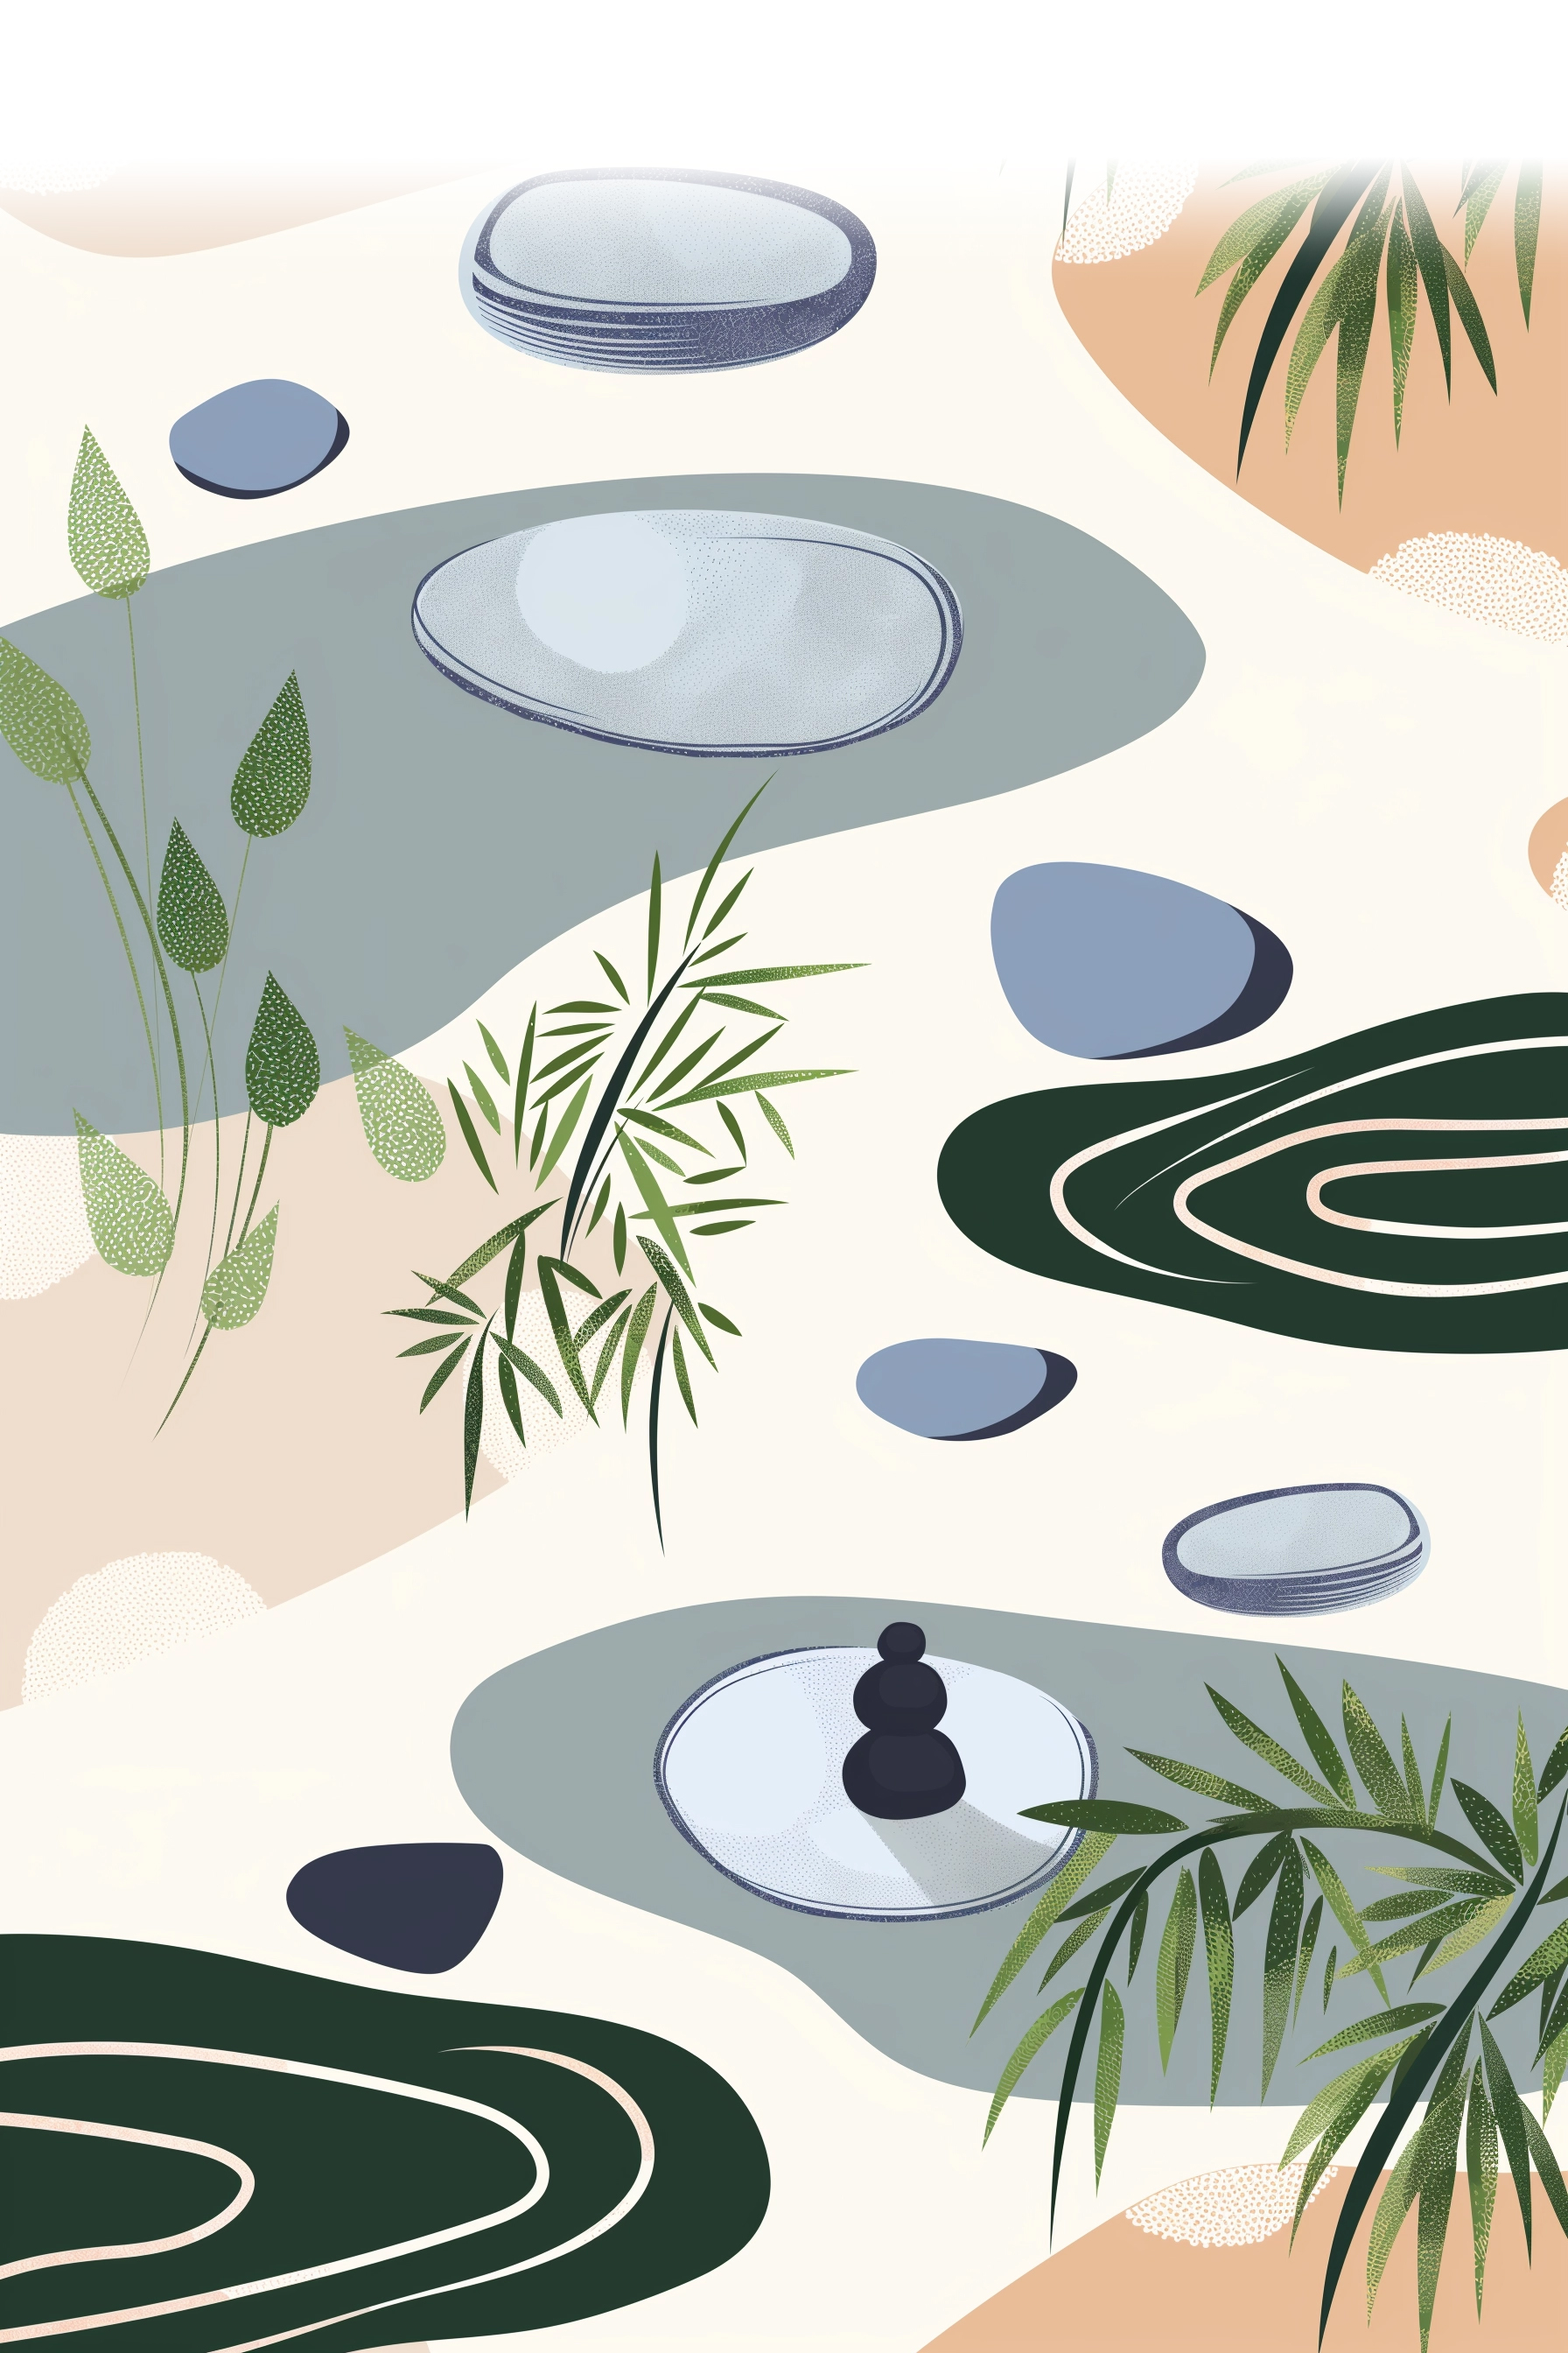
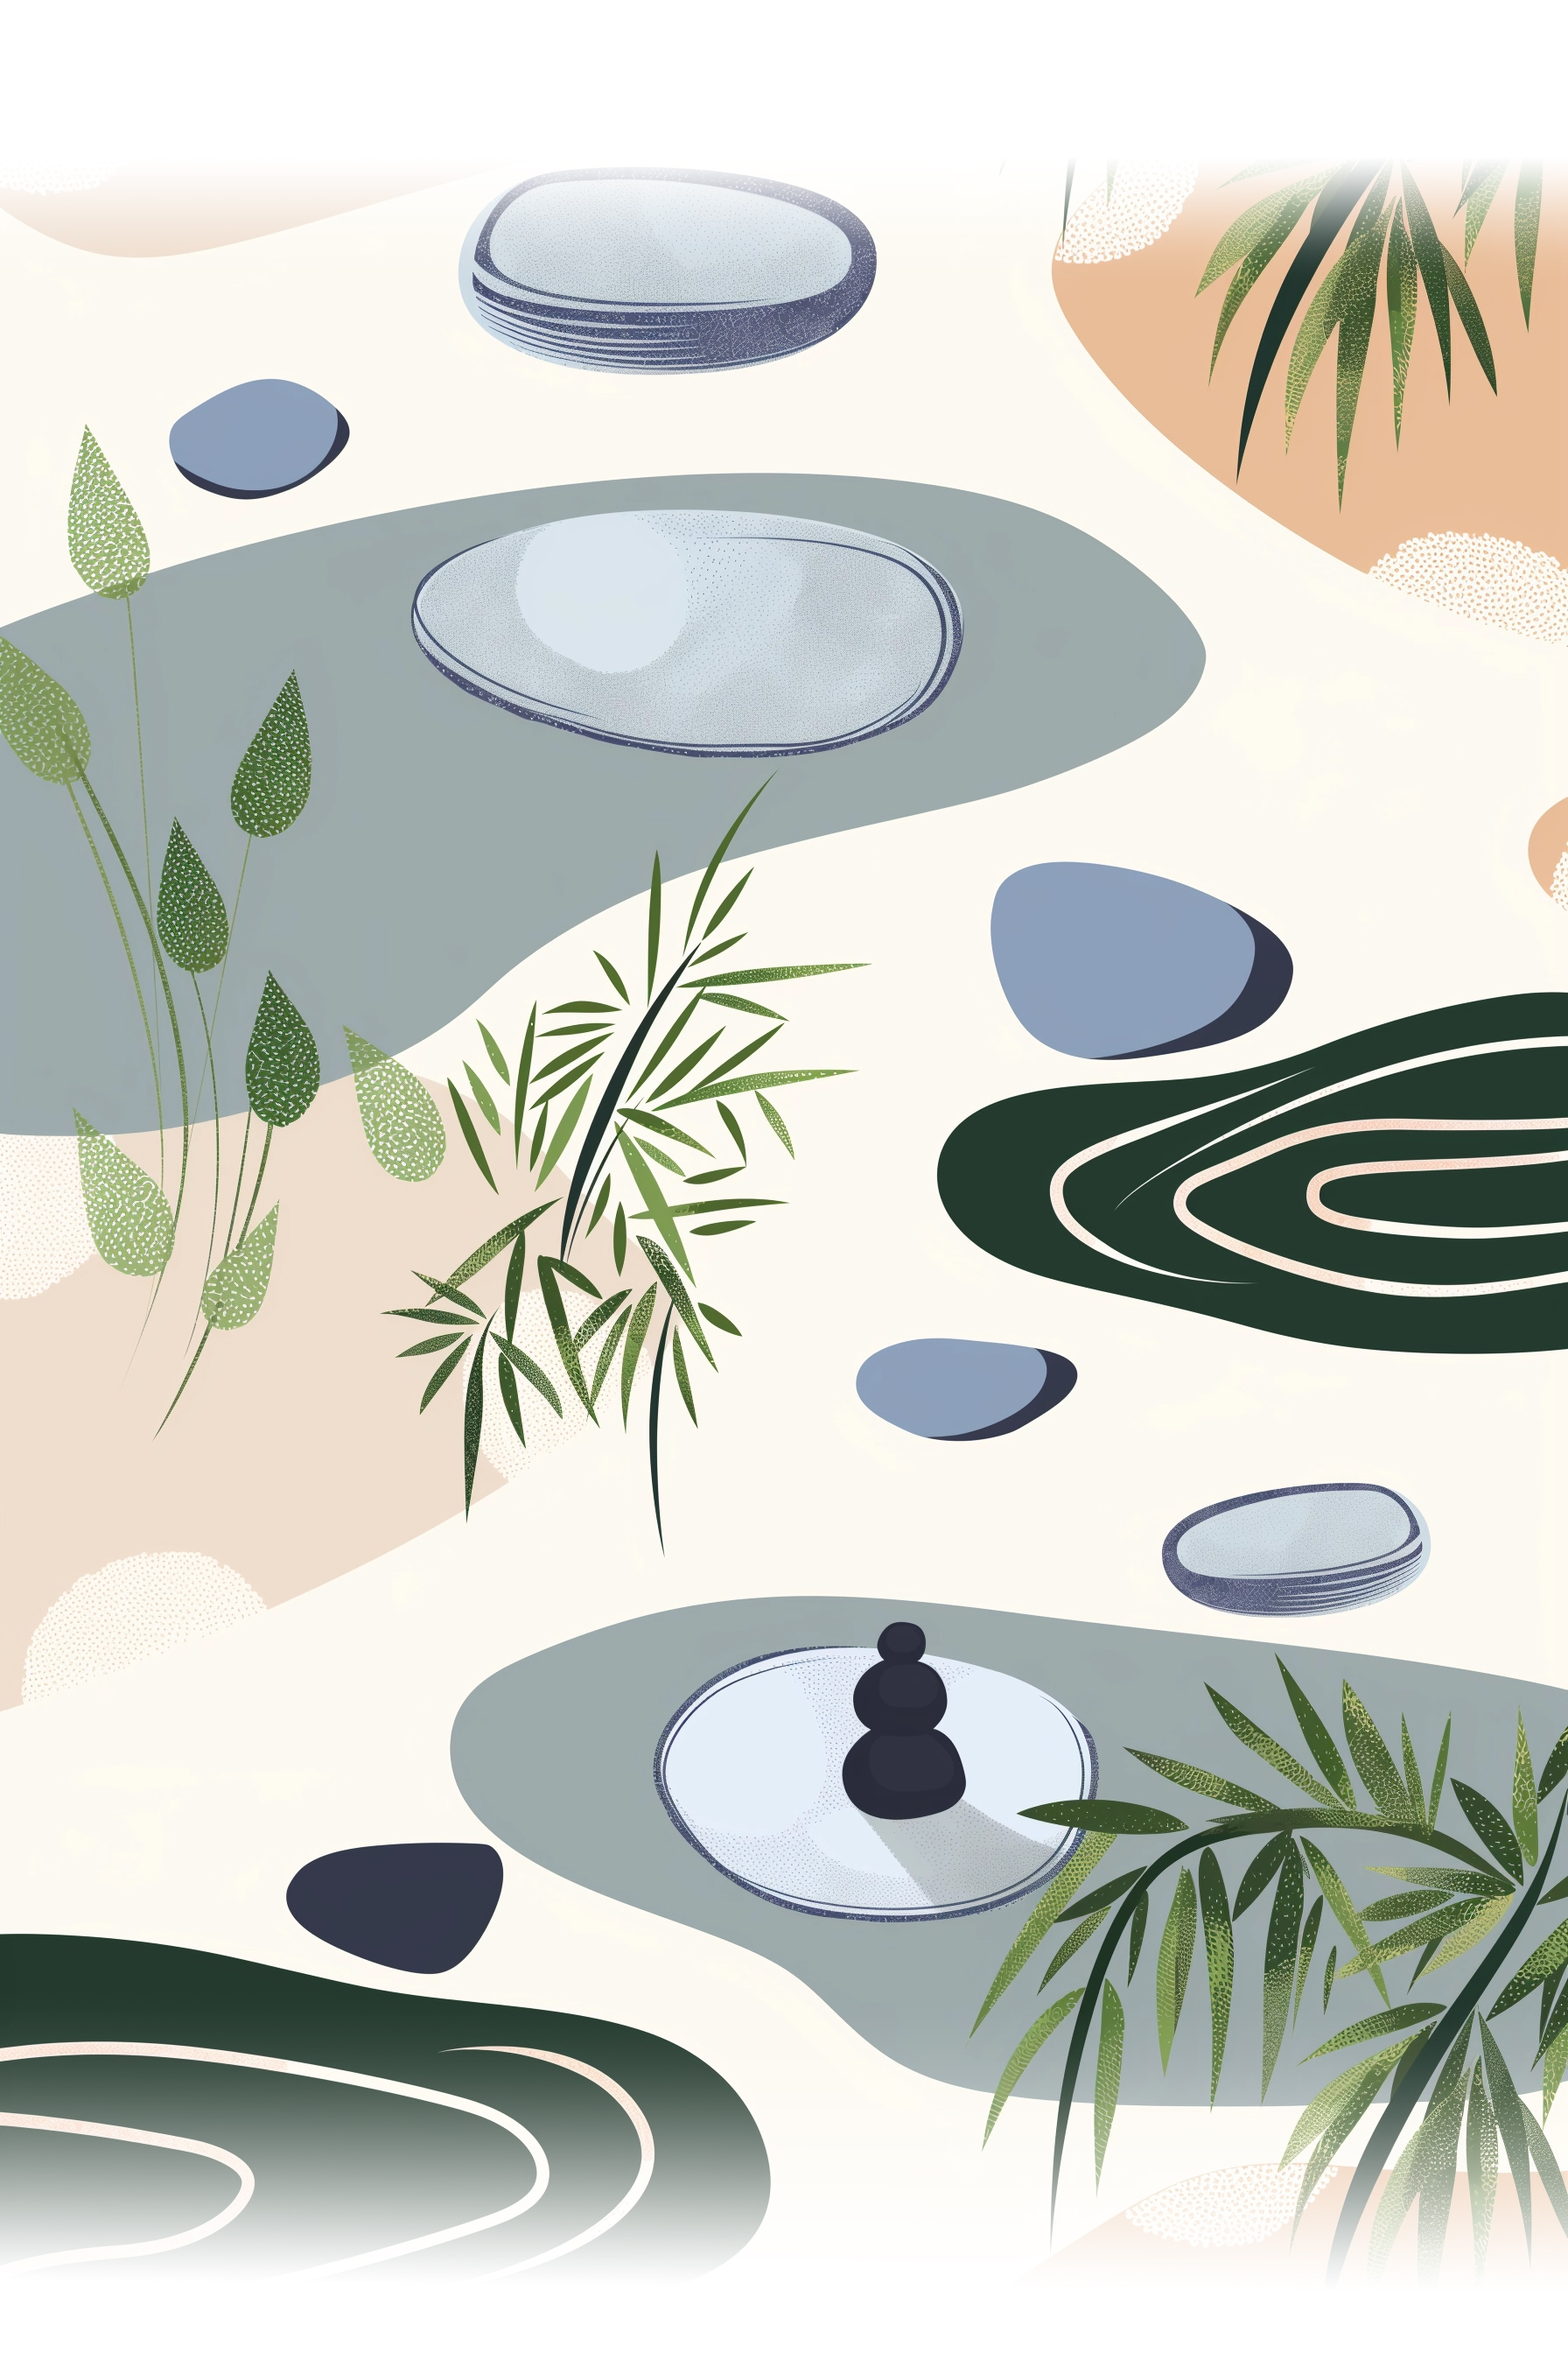
Updated Backgroung image
Updated style.css

Changed region(s): [[0.0, 0.875, 0.5, 1.0], [0.5938, 0.875, 1.0, 1.0]]

diff --git a/style.css b/style.css
@@ -189,7 +189,7 @@ footer {
 
 /* Sidebar and Header by Daniel Anaya */
 html {
-	background-image: url(image/zenGardenBackground.jpg);
+	background-image: url("image/zenGardenBackground.jpg");
   background-postion: center;
   background-repeat: no-repeat;
   background-size: cover;
@@ -200,8 +200,24 @@ body {
 }
 
 header {
+  min-width: 668px;
 	display: flex;
 	justify-content: space-around;
+}
+
+#zen-preamble {
+  background-color: rgba(205,222,210,.9);
+  padding-top: 5px;
+  padding-bottom: 10px;
+  border-radius: 12px;
+}
+
+#zen-preamble h3 {
+  margin-top: 10px;
+}
+
+#zen-summary {
+  min-width: 619px;
 }
 
 #zen-supporting h3 {
@@ -273,10 +289,11 @@ header {
 
 /* Footer by Gerald Celestin */
 footer {
-  min-width: 100%;
+  min-width: 658px;
   font-size: 16px;
   margin-top: 20px;
   background-image: url("image/Nature.jpeg");
+  background-size: cover; 
   text-align: center;
   display: flex;
   justify-content: space-around;
